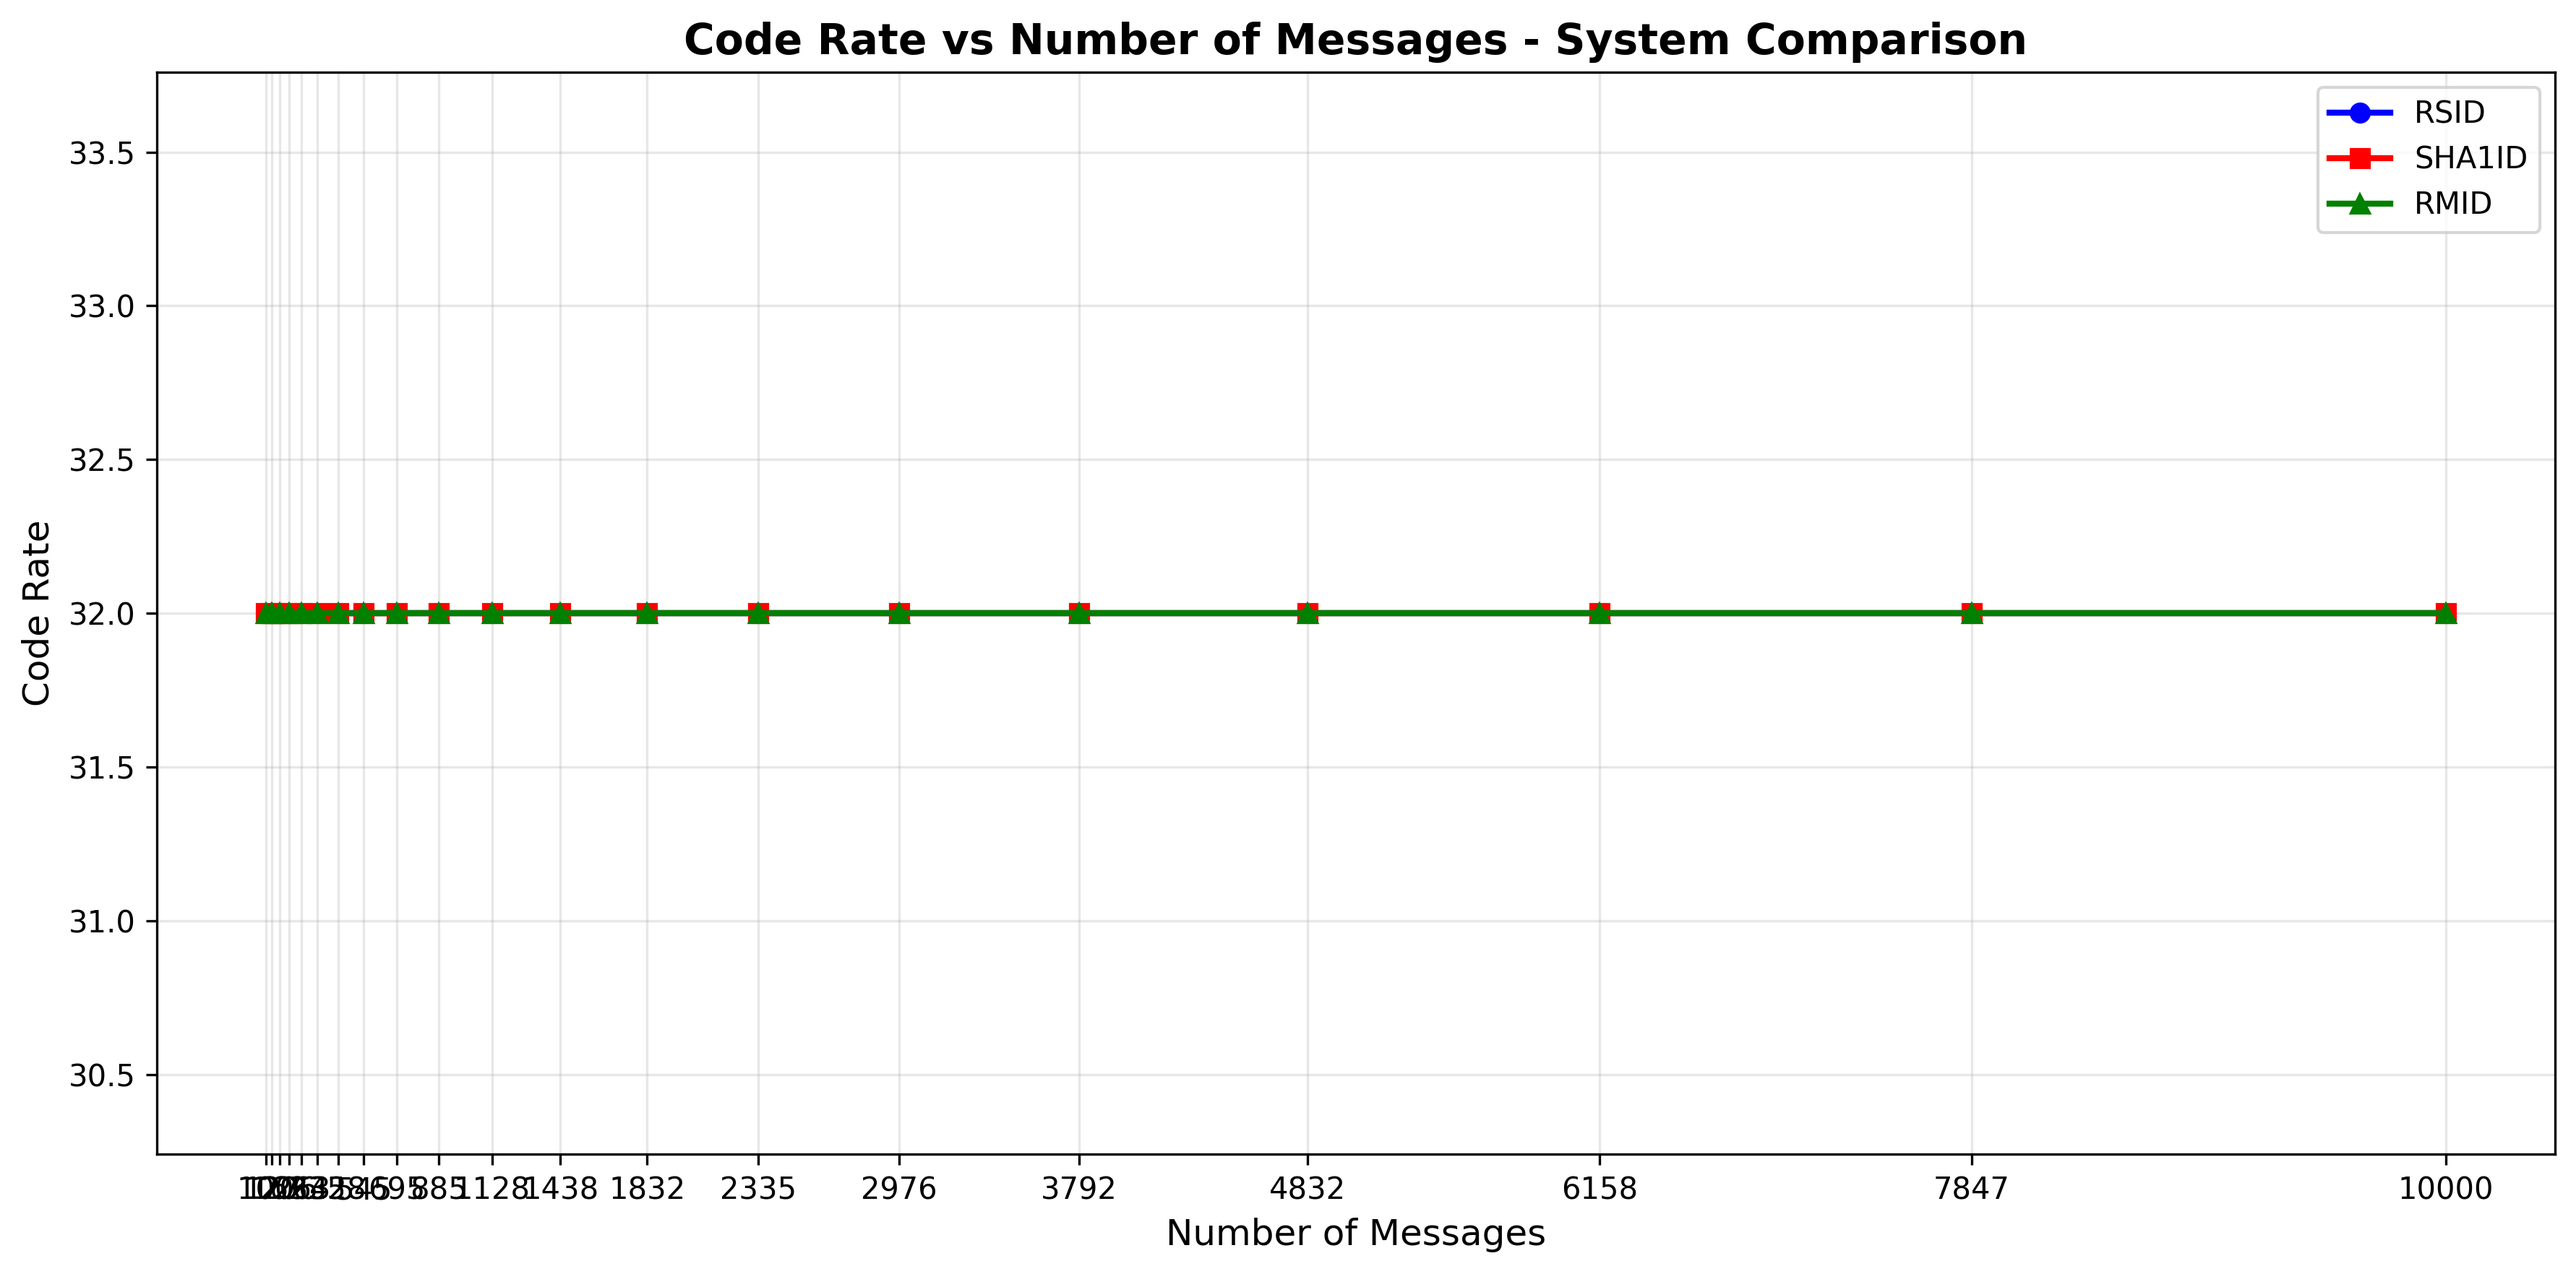
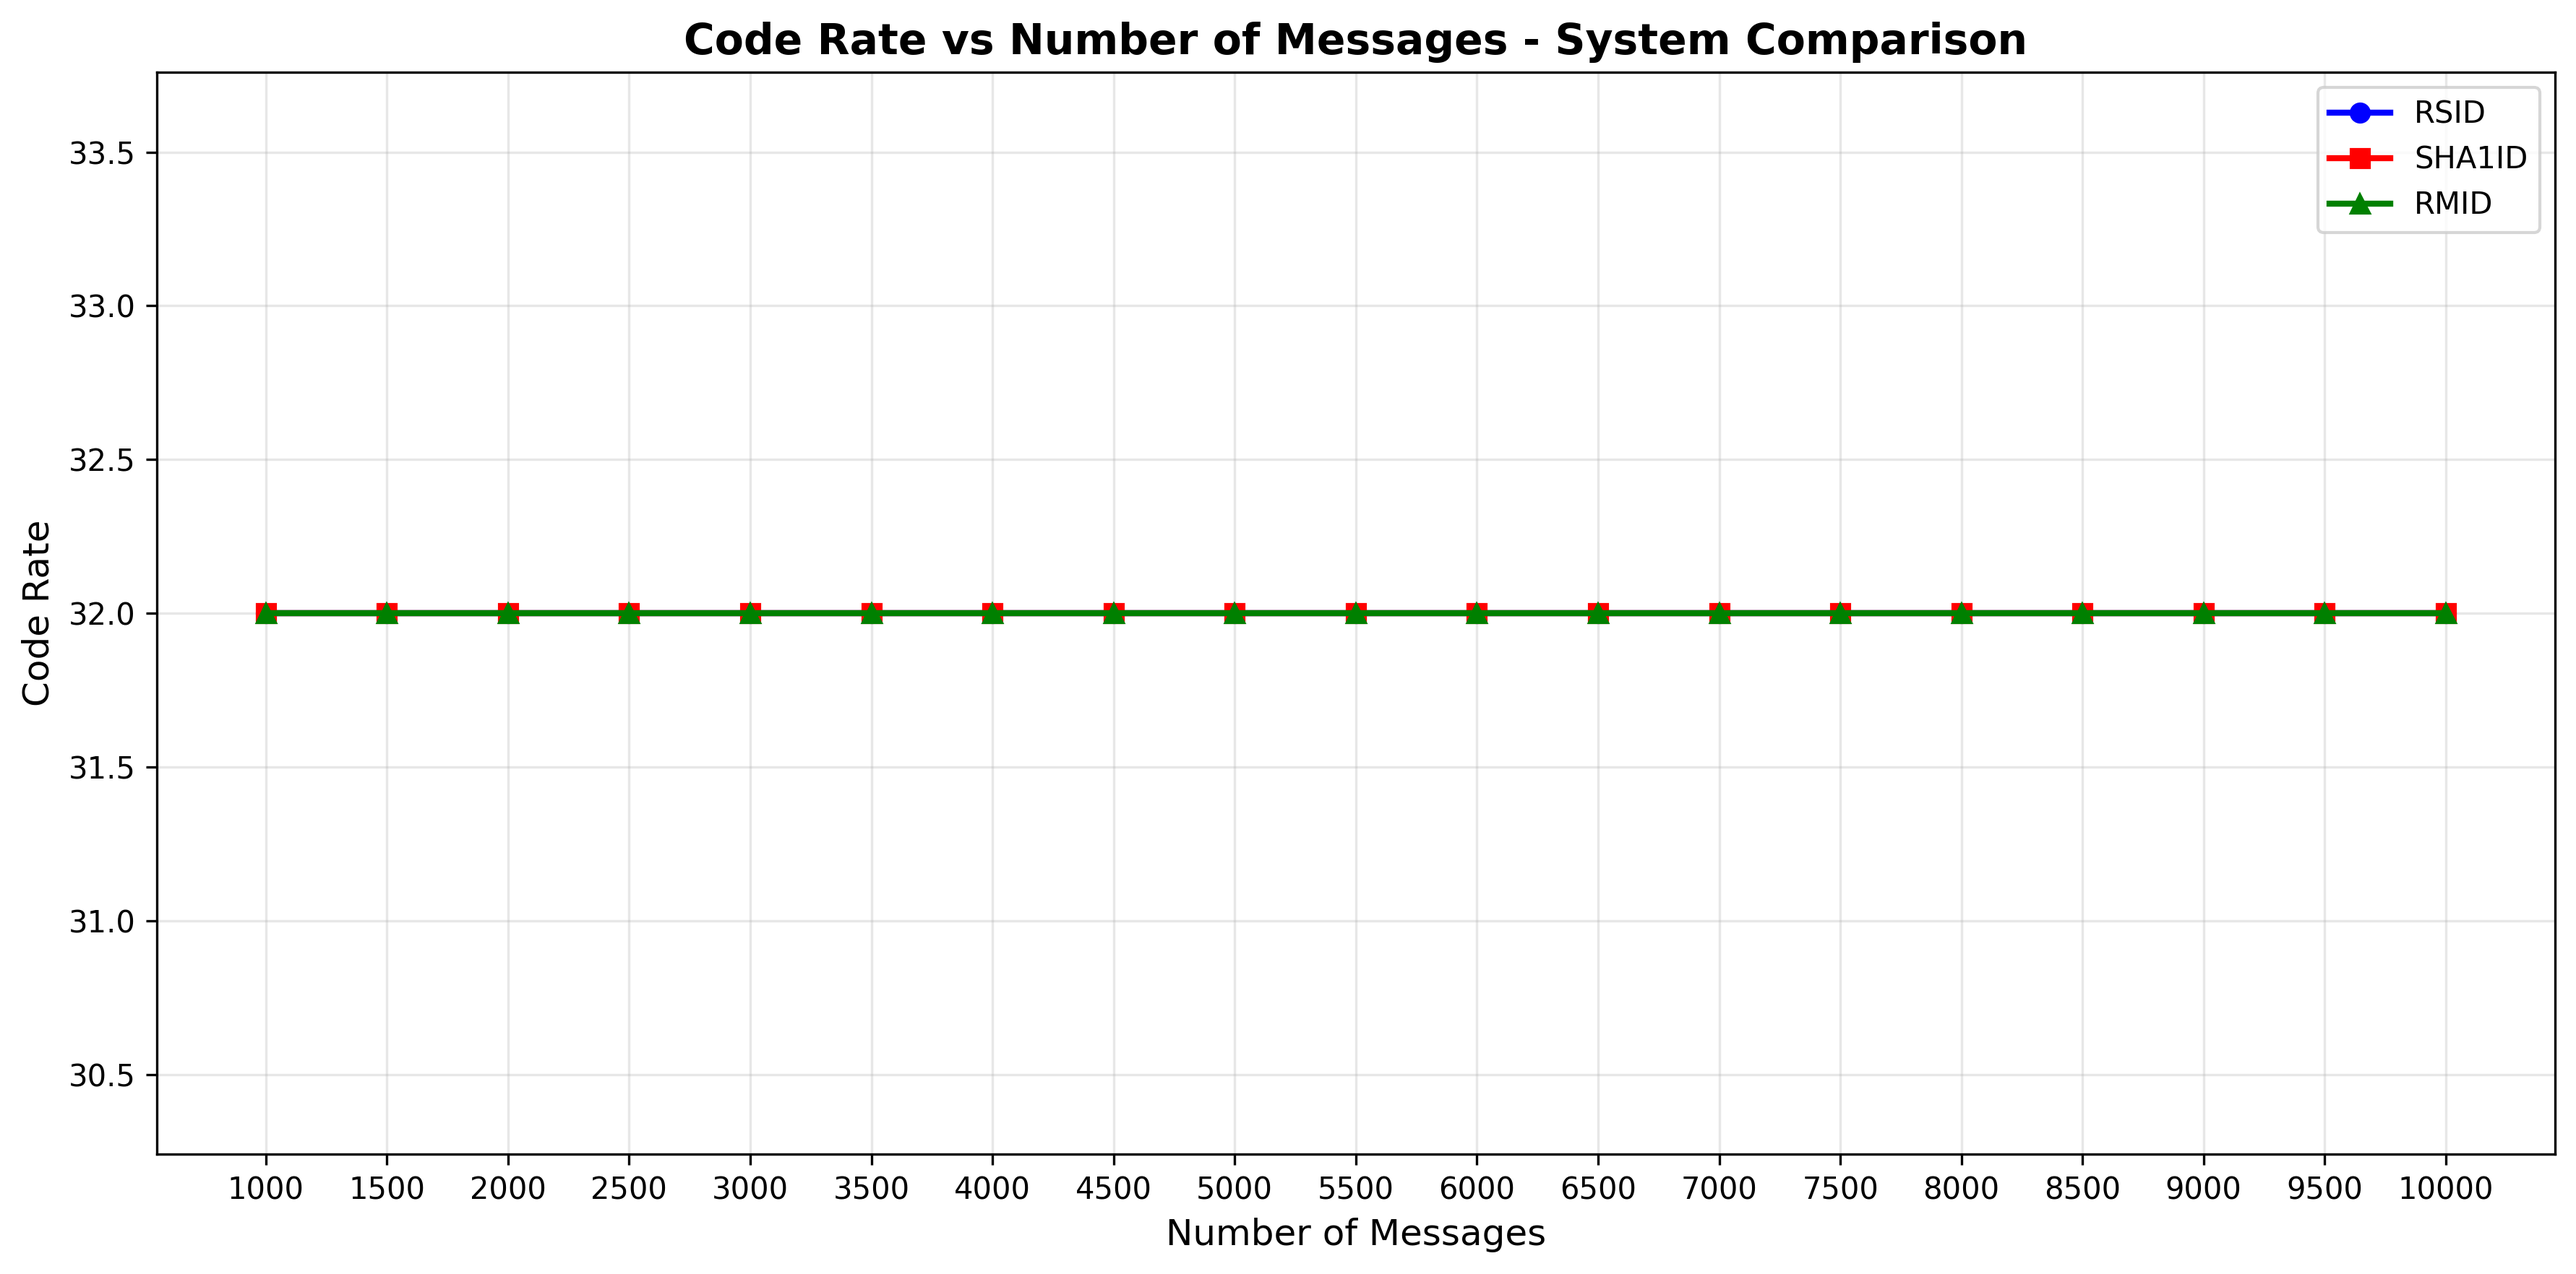
changed number space for num_messages_influence

diff --git a/analyses/num_messages_influence/num_messages.py b/analyses/num_messages_influence/num_messages.py
@@ -19,7 +19,7 @@ def main():
 
     # Range of vec_length values to test
     #num_messages = [10, 50, 100, 500, 1000, 5000, 10000]
-    num_messages = np.logspace(np.log10(100), np.log10(10000), num=20, dtype=int)
+    num_messages = np.linspace(1000, 10000, num=19, dtype=int)
 
     # Create systems as a dictionary for compare_systems
     systems = {
